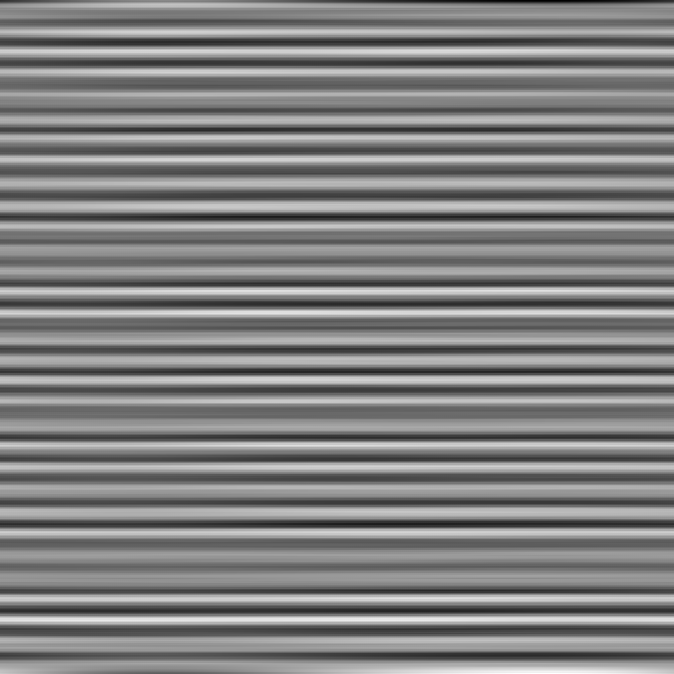
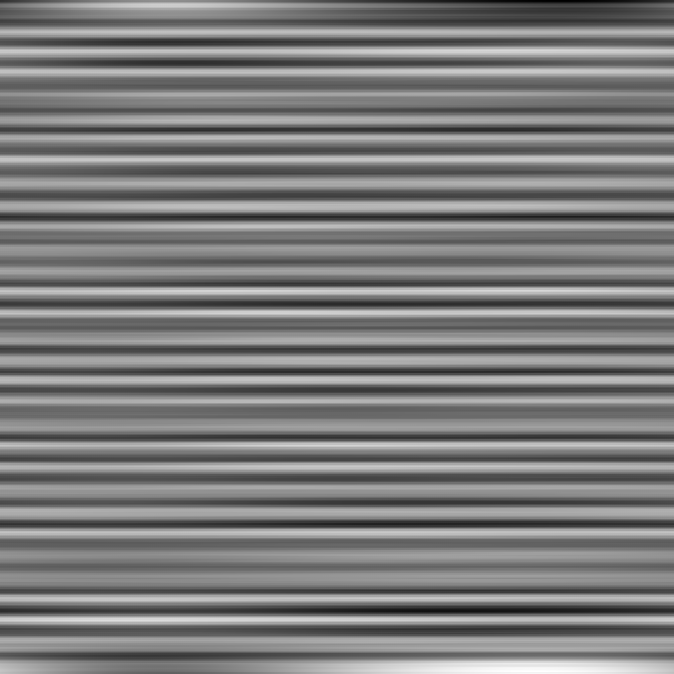
lab1 fix2

diff --git a/DIP/exp3/1/new_filter.cpp b/DIP/exp3/1/new_filter.cpp
@@ -4,29 +4,6 @@
 using namespace cv;
 using namespace std;
 
-// 单通道中心化
-void fftShiftSingle(Mat &mag)
-{
-    int cx = mag.cols / 2;
-    int cy = mag.rows / 2;
-
-    Mat q0(mag, Rect(0, 0, cx, cy));   // 左上
-    Mat q1(mag, Rect(cx, 0, cx, cy));  // 右上
-    Mat q2(mag, Rect(0, cy, cx, cy));  // 左下
-    Mat q3(mag, Rect(cx, cy, cx, cy)); // 右下
-
-    Mat tmp;
-    // 交换左上 <-> 右下
-    q0.copyTo(tmp);
-    q3.copyTo(q0);
-    tmp.copyTo(q3);
-
-    // 交换右上 <-> 左下
-    q1.copyTo(tmp);
-    q2.copyTo(q1);
-    tmp.copyTo(q2);
-}
-
 // 频谱可视化
 Mat spectrumToImage(const Mat &complexImg)
 {
@@ -42,7 +19,7 @@ Mat spectrumToImage(const Mat &complexImg)
     return mag8U;
 }
 
-// 构建竖直陷波滤波器，直接作用于中心化频谱
+// 构建竖直陷波滤波器
 // size: 频谱大小
 // bandHalfWidth: 阻带半宽度（像素）
 // skipCenterRadius: 中心跳过半径（像素）
@@ -58,16 +35,30 @@ cv::Mat createNotchFilterComplex(cv::Size size, int bandHalfWidth, int skipCente
     {
         for (int x = 0; x < size.width; ++x)
         {
-            // 阻带竖直带，中心在 cx
             if (std::abs(x - cx) <= bandHalfWidth && std::abs(y - cy) >= skipCenterRadius)
             {
-                filter.at<cv::Vec2f>(y, x)[0] = 0.0f; // 实部
-                filter.at<cv::Vec2f>(y, x)[1] = 0.0f; // 虚部
+                filter.at<cv::Vec2f>(y, x)[0] = 0.0f;
+                filter.at<cv::Vec2f>(y, x)[1] = 0.0f;
             }
         }
     }
 
     return filter;
+}
+
+// 空间域中心化: 原图乘 (-1)^(x+y)
+void centerShift(Mat &img)
+{
+    Mat maskY = Mat::ones(img.rows, 1, CV_32F);
+    Mat maskX = Mat::ones(1, img.cols, CV_32F);
+
+    for (int i = 0; i < img.rows; i++)
+        maskY.at<float>(i, 0) = (i % 2 == 0) ? 1 : -1;
+    for (int j = 0; j < img.cols; j++)
+        maskX.at<float>(0, j) = (j % 2 == 0) ? 1 : -1;
+
+    Mat mask = maskY * maskX;
+    multiply(img, mask, img);
 }
 
 int main()
@@ -89,27 +80,24 @@ int main()
     int n = getOptimalDFTSize(src.cols);
     copyMakeBorder(src, padded, 0, m - src.rows, 0, n - src.cols, BORDER_CONSTANT, Scalar::all(0));
 
+    // 空间域中心化
+    centerShift(padded);
+
     // 构建复数矩阵
-    Mat planes[] = {Mat_<float>(padded), Mat::zeros(padded.size(), CV_32F)};
+    Mat planes[] = {padded, Mat::zeros(padded.size(), padded.type())};
     Mat complexI;
     merge(planes, 2, complexI);
 
     // DFT
     dft(complexI, complexI);
 
-    // 中心化频谱
-    split(complexI, planes);
-    fftShiftSingle(planes[0]);
-    fftShiftSingle(planes[1]);
-    merge(planes, 2, complexI);
-
     // 频谱
     Mat spectrum = spectrumToImage(complexI);
     imwrite("fft_result.png", spectrum);
 
     // 构建陷波滤波器
-    int bandHalfWidth = 2;    // 阻带半宽度
-    int skipCenterRadius = 6; // 中心跳过半径
+    int bandHalfWidth = 2;     // 阻带半宽度
+    int skipCenterRadius = 10; // 中心跳过半径
     Mat notchFilter = createNotchFilterComplex(complexI.size(), bandHalfWidth, skipCenterRadius);
 
     // 可视化滤波器频谱
@@ -125,15 +113,10 @@ int main()
     imwrite("fft_filtered_result.png", filteredSpectrum);
 
     // 逆 DFT
-    // 先中心化回去
-    split(filteredComplex, planes);
-    fftShiftSingle(planes[0]);
-    fftShiftSingle(planes[1]);
-    merge(planes, 2, filteredComplex);
-
     Mat invDFT;
     dft(filteredComplex, invDFT, DFT_INVERSE | DFT_REAL_OUTPUT | DFT_SCALE);
-
+    // 逆空间域中心化
+    centerShift(invDFT);
     // 裁剪到原始大小
     invDFT = invDFT(Rect(0, 0, src.cols, src.rows));
     normalize(invDFT, invDFT, 0, 255, NORM_MINMAX);
@@ -145,14 +128,12 @@ int main()
     // 提取噪声频谱
     Mat noiseSpectrum;
     mulSpectrums(complexI, inverseFilter, noiseSpectrum, 0);
-    // 逆中心化
-    split(noiseSpectrum, planes);
-    fftShiftSingle(planes[0]);
-    fftShiftSingle(planes[1]);
-    merge(planes, 2, noiseSpectrum);
     // 逆 DFT 得到噪声图像
     Mat noiseImage;
     dft(noiseSpectrum, noiseImage, DFT_INVERSE | DFT_REAL_OUTPUT | DFT_SCALE);
+    // 逆空间域中心化
+    centerShift(noiseImage);
+    // 裁剪到原始大小
     noiseImage = noiseImage(Rect(0, 0, src.cols, src.rows));
     normalize(noiseImage, noiseImage, 0, 255, NORM_MINMAX);
     noiseImage.convertTo(noiseImage, CV_8U);
